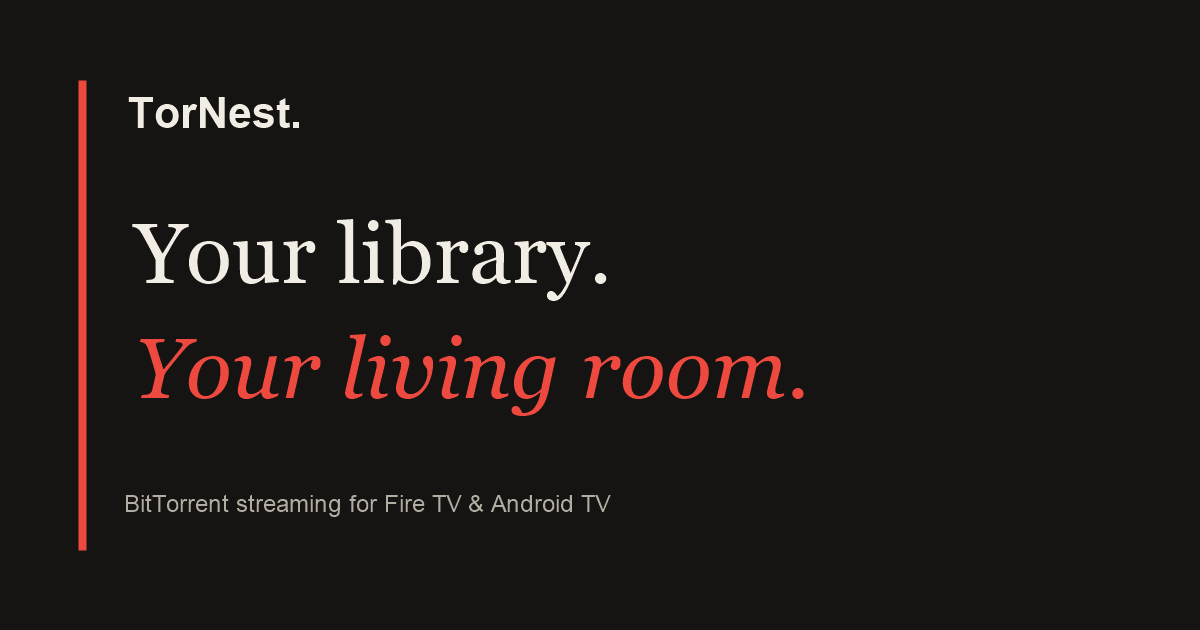
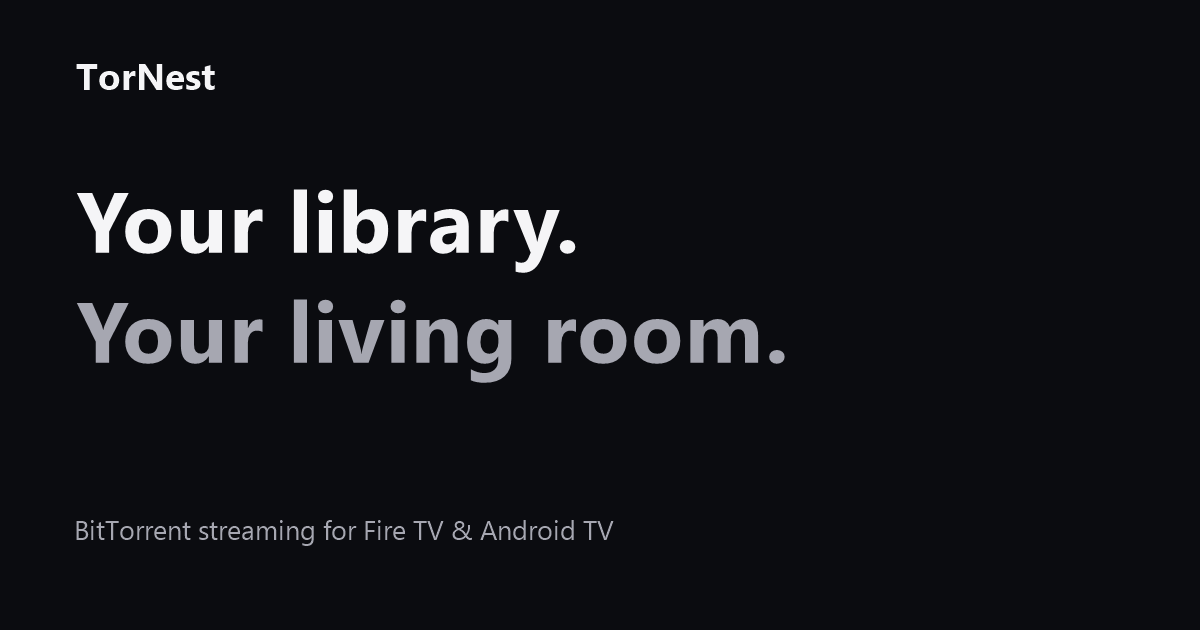
feat: refresh GitHub Pages with the new TV interface previews

Changed region(s): [[0.0617, 0.0905, 0.6783, 0.8746]]

diff --git a/website/assets/style.css b/website/assets/style.css
@@ -1,7 +1,7 @@
-@import url('https://fonts.googleapis.com/css2?family=DM+Sans:wght@400;500;600;700&family=Instrument+Serif:ital@0;1&display=swap');
+500;600;700&family=Instrument+Serif:ital@0;1&display=swap');
 
-:root{color-scheme:dark;--bg:#151413;--surface:#1d1b19;--ink:#f1ede4;--muted:#b2aca2;--line:#38342e;--red:#ed493f;--serif:'Instrument Serif',Georgia,serif;--sans:'DM Sans',Arial,sans-serif}*{box-sizing:border-box}html{scroll-behavior:smooth;scroll-padding-top:2rem}body{margin:0;background:var(--bg);color:var(--ink);font-family:var(--sans);font-size:16px;line-height:1.65}a{color:inherit;text-underline-offset:5px}a:hover{color:var(--red)}button,a{-webkit-tap-highlight-color:transparent}button:focus-visible,a:focus-visible,summary:focus-visible{outline:3px solid var(--red);outline-offset:6px}button{font:inherit}p{margin:0 0 1.3rem}h1,h2,h3{font-weight:400;margin:0}h1,h2{font-family:var(--serif);line-height:1.02;letter-spacing:-.025em}h1{font-size:clamp(4.2rem,6.7vw,7.8rem)}h2{font-size:clamp(2.8rem,4.2vw,4.8rem)}h3{font-size:1.32rem;line-height:1.3;letter-spacing:-.025em}em{font-weight:400;color:var(--red)}.wrap{width:min(1240px,calc(100% - 96px));margin-inline:auto}.site-header{height:112px;display:flex;align-items:center;gap:3rem;border-bottom:1px solid var(--line)}.brand{text-decoration:none;white-space:nowrap;font-weight:700;font-size:1.9rem;letter-spacing:-.08em;display:inline-flex;align-items:center;line-height:1}.brand-period{color:var(--red)}.brand-mark{font-size:.8rem;letter-spacing:0;margin-right:.75rem;color:var(--red)}nav{display:flex;align-items:center;gap:2rem;margin:auto}nav a,.header-github{text-decoration:none;font-size:.86rem;color:var(--muted)}nav a[aria-current]{color:var(--ink);text-decoration:underline;text-decoration-color:var(--red);text-underline-offset:10px}.header-github{color:var(--ink)}.hero{min-height:660px;display:grid;grid-template-columns:1.25fr 1fr;align-items:center;gap:2rem;padding-top:64px;padding-bottom:80px}.eyebrow{font-size:.65rem;font-weight:600;letter-spacing:.18em;display:flex;align-items:center;gap:.7rem;margin-bottom:2rem;line-height:1.6}.eyebrow>span:not(.live-dot){color:var(--red)}.live-dot{width:6px;height:6px;background:var(--red);border-radius:50%;display:inline-block}.hero h1{margin-bottom:1.8rem}.intro{color:var(--muted);font-size:1.06rem;max-width:520px;line-height:1.85}.actions{display:flex;flex-wrap:wrap;gap:12px;margin-top:2rem}.button{display:inline-flex;align-items:center;justify-content:center;gap:2rem;text-decoration:none;background:var(--red);color:#151413;border:1px solid var(--red);font-size:.85rem;font-weight:700;padding:15px 22px;min-height:53px}.button:hover{color:var(--ink);background:#bb2f28;border-color:#bb2f28}.button.secondary{background:transparent;color:var(--ink);border-color:var(--line)}.button.secondary:hover{border-color:var(--ink)}.hero-note{font-size:.72rem;color:var(--muted);margin-top:1.1rem;max-width:560px}.hero-art{position:relative;aspect-ratio:1/1;max-height:510px;isolation:isolate;background:radial-gradient(ellipse at center,#65241b66 0,transparent 66%);overflow:hidden}.art-label{position:absolute;left:0;top:6%;font-size:.62rem;letter-spacing:.18em;color:var(--muted)}.orbit{border:1px solid #514138;border-radius:50%;position:absolute;top:50%;left:50%;transform:translate(-50%,-50%)}.orbit-one{width:41%;height:41%}.orbit-two{width:68%;height:68%}.orbit-three{width:95%;height:95%;border-style:dashed;border-color:#39332d}.play-core{width:30%;height:30%;top:50%;left:50%;transform:translate(-50%,-50%);position:absolute;background:var(--red);border-radius:50%;color:#1d1814;box-shadow:0 0 80px #c9312729;display:grid;place-items:center}.play-core svg{width:75%;height:75%}.orbit-node{position:absolute;border-radius:50%;width:8px;height:8px;background:var(--red)}.node-one{top:18%;left:39%}.node-two{top:61%;left:81%}.node-three{top:69%;left:14%;width:5px;height:5px;background:var(--ink)}.art-caption{position:absolute;bottom:0;left:0;right:0;display:flex;justify-content:space-between;font-size:.53rem;letter-spacing:.16em;color:var(--muted)}.platform-strip{border-block:1px solid var(--line)}.platform-strip>.wrap{display:flex;justify-content:space-between;align-items:center;gap:1.5rem;min-height:91px}.platform-strip span:first-child{font-size:.6rem;letter-spacing:.12em;color:var(--muted)}.platform-strip span:not(:first-child){font-weight:600;letter-spacing:-.03em;font-size:1.25rem}.platform-strip a{font-size:.74rem;text-decoration:none}.section{padding-block:110px}.section-heading{max-width:560px}.section-heading>p:last-child{margin:1.4rem 0 0;color:var(--muted);max-width:390px}.feature-grid{display:grid;grid-template-columns:repeat(3,1fr);margin-top:3.5rem;border-top:1px solid var(--line)}.feature-grid article{padding:2.2rem 2.1rem 0 0}.feature-grid article+article{border-left:1px solid var(--line);padding-left:2.1rem}.feature-number{font-size:.58rem;letter-spacing:.15em;color:var(--red)}.feature-grid h3{margin:1.25rem 0 1rem}.feature-grid p{color:var(--muted);font-size:.88rem;max-width:330px}.how-section{padding-block:95px;background:var(--surface);border-block:1px solid var(--line)}.how-layout,.split{display:grid;grid-template-columns:1fr 1fr;gap:6rem}.how-layout h2{margin-bottom:1.5rem}.how-layout>div>p.muted{max-width:430px;font-size:.93rem}.text-link{display:inline-block;font-size:.8rem;margin-top:.7rem}.steps{list-style:none;padding:0;margin:0}.steps li{display:flex;gap:1.8rem;padding:1.4rem 0;border-bottom:1px solid var(--line)}.steps li:first-child{padding-top:0}.steps li>span{color:var(--red);font-size:.7rem;padding-top:.3rem}.steps h3{font-size:1.15rem}.steps p{font-size:.86rem;color:var(--muted);margin:.7rem 0 0}.faq-layout{display:grid;grid-template-columns:1fr 1.25fr;gap:5rem}details{border-bottom:1px solid var(--line)}details:first-child{border-top:1px solid var(--line)}summary{padding:1.4rem 0;list-style:none;cursor:pointer;display:flex;gap:1.5rem;justify-content:space-between;font-size:.95rem}summary::-webkit-details-marker{display:none}summary>span{font-size:1.3rem;color:var(--red);font-weight:400;line-height:1.2}details[open] summary>span{transform:rotate(45deg)}.answer{padding-right:2rem;color:var(--muted);font-size:.9rem}.answer p:last-child{margin-bottom:1.5rem}.cta{text-align:center;border-top:1px solid var(--line);padding-block:80px 100px}.cta .eyebrow{justify-content:center}.cta h2{font-size:clamp(3.6rem,6vw,6rem);margin-bottom:2rem}.cta>p:last-child{color:var(--muted);font-size:.75rem;margin-top:1rem}.site-footer{border-top:1px solid var(--line)}.footer-top{display:flex;gap:2rem;align-items:center;padding-block:40px}.footer-top .brand{font-size:1.6rem}.footer-top p{margin:0 auto 0 0;font-size:.78rem;color:var(--muted)}.footer-top>a:not(.brand){font-size:.73rem;text-decoration:none}.footer-bottom{border-top:1px solid var(--line);padding-block:24px;display:flex;gap:3rem;align-items:center}.footer-bottom p{max-width:740px;color:var(--muted);font-size:.66rem;margin:0}.footer-bottom>span{margin-left:auto;white-space:nowrap;font-size:.56rem;letter-spacing:.14em;color:var(--muted)}.skip-link{position:absolute;left:1rem;top:-80px;z-index:10;padding:12px 20px;background:var(--ink);color:var(--bg)}.skip-link:focus{top:1rem}.muted{color:var(--muted)}.small{font-size:.78rem}.page-hero{padding-block:90px 65px}.page-hero h1{margin-bottom:1.6rem}.page-hero .intro{max-width:640px}.page-hero>.button{margin-top:1rem}.guide{display:grid;grid-template-columns:270px 1fr;gap:6rem;padding-bottom:100px;padding-top:30px}.guide-aside{font-size:.84rem;color:var(--muted);border-top:1px solid var(--line);padding-top:1.6rem}.guide-aside .eyebrow{color:var(--red);margin-bottom:1rem}.guide-step{display:grid;grid-template-columns:35px 1fr;gap:1.2rem;padding:1.7rem 0;border-top:1px solid var(--line)}.step-index{font-size:.7rem;color:var(--red);padding-top:.4rem}.guide h2,.prose-section h2{font-family:var(--sans);font-size:1.5rem;line-height:1.4;letter-spacing:-.04em;margin-bottom:1rem}.guide-step p,.prose-section p{font-size:.94rem;color:var(--muted)}code{font-family:Consolas,'Liberation Mono',monospace;font-size:.86em;overflow-wrap:anywhere}p code{color:var(--ink)}.code-panel{border:1px solid var(--line);background:var(--surface);padding:28px;margin-block:30px}.code-panel .eyebrow{color:var(--red);margin-bottom:1rem}.code-panel>p{font-size:.85rem;color:var(--muted)}.code-toolbar{display:flex;align-items:center;justify-content:space-between;margin-top:1.5rem;font-size:.6rem;color:var(--muted);letter-spacing:.1em}.copy-button{padding:8px 10px;background:transparent;border:1px solid var(--line);color:var(--ink);font-size:.72rem;cursor:pointer}.copy-button:hover{border-color:var(--red)}pre{max-width:100%;overflow-x:auto;background:#11100f;border:1px solid var(--line);padding:18px;font-size:.9rem;white-space:pre}.copy-status:empty{display:none}.prose-section{padding-top:2rem}.requirements{display:grid;grid-template-columns:repeat(3,1fr);border-block:1px solid var(--line)}.requirements>div{padding:2rem 2rem 2rem 0}.requirements>div+div{padding-left:2rem;border-left:1px solid var(--line)}.requirements .eyebrow{font-size:.57rem;margin-bottom:1rem}.requirements strong{display:block;font-family:var(--serif);font-size:3rem;font-weight:400;line-height:1.2;margin-bottom:.7rem}.requirements>div>span{display:block;font-size:.78rem;color:var(--muted)}.table-scroll{overflow-x:auto;margin-top:2rem}table{border-collapse:collapse;width:100%;text-align:left}caption{text-align:left;font-size:.75rem;color:var(--muted);padding-bottom:1.5rem}th,td{padding:1.3rem 1.5rem 1.3rem 0;border-bottom:1px solid var(--line);vertical-align:top}thead th{font-size:.65rem;text-transform:uppercase;letter-spacing:.13em;color:var(--muted)}tbody th{font-weight:500;width:30%;font-size:.95rem}td{color:var(--muted);font-size:.9rem}.table-scroll+p{font-size:.8rem;margin-top:1.5rem}.split>div:last-child{font-size:.94rem;color:var(--muted)}.help-content{max-width:860px;margin-bottom:1rem}.report-list{padding-left:1.1rem}.report-list li{margin-bottom:.5rem}
+:root{color-scheme:dark;--bg:#0b0c10;--surface:#15161c;--ink:#f5f5f7;--muted:#a6a7b1;--line:#2d2e37;--red:#e5e5ea;--serif:var(--sans);--sans:Inter,-apple-system,BlinkMacSystemFont,"Segoe UI",Arial,sans-serif}*{box-sizing:border-box}html{scroll-behavior:smooth;scroll-padding-top:2rem}body{margin:0;background:var(--bg);color:var(--ink);font-family:var(--sans);font-size:16px;line-height:1.65}a{color:inherit;text-underline-offset:5px}a:hover{color:var(--red)}button,a{-webkit-tap-highlight-color:transparent}button:focus-visible,a:focus-visible,summary:focus-visible{outline:3px solid var(--red);outline-offset:6px}button{font:inherit}p{margin:0 0 1.3rem}h1,h2,h3{font-weight:600;margin:0}h1,h2{font-family:var(--serif);line-height:1.06;letter-spacing:-.055em}h1{font-size:clamp(3.4rem,5.5vw,6rem)}h2{font-size:clamp(2.8rem,4.2vw,4.8rem)}h3{font-size:1.32rem;line-height:1.3;letter-spacing:-.025em}em{font-weight:600;font-style:normal;color:var(--muted)}.wrap{width:min(1240px,calc(100% - 96px));margin-inline:auto}.site-header{height:96px;display:flex;align-items:center;gap:3rem;border-bottom:1px solid var(--line)}.brand{text-decoration:none;white-space:nowrap;font-weight:700;font-size:1.9rem;letter-spacing:-.08em;display:inline-flex;align-items:center;line-height:1}.brand-period{color:var(--red)}.brand-mark{font-size:.8rem;letter-spacing:0;margin-right:.75rem;color:var(--red)}nav{display:flex;align-items:center;gap:4px;margin:auto;background:var(--surface);border:1px solid var(--line);border-radius:50px;padding:5px}nav a,.header-github{text-decoration:none;font-size:.86rem;color:var(--muted)}nav a{padding:8px 15px;border-radius:50px}nav a[aria-current]{color:var(--ink);background:#30313a}.header-github{color:var(--ink)}.hero{min-height:660px;display:grid;grid-template-columns:1fr 1.15fr;align-items:center;gap:2rem;padding-top:64px;padding-bottom:80px}.eyebrow{font-size:.65rem;font-weight:600;letter-spacing:.18em;display:flex;align-items:center;gap:.7rem;margin-bottom:2rem;line-height:1.6}.eyebrow>span:not(.live-dot){color:var(--red)}.live-dot{width:6px;height:6px;background:var(--red);border-radius:50%;display:inline-block}.hero h1{margin-bottom:1.8rem}.intro{color:var(--muted);font-size:1.06rem;max-width:520px;line-height:1.85}.actions{display:flex;flex-wrap:wrap;gap:12px;margin-top:2rem}.button{display:inline-flex;align-items:center;justify-content:center;gap:2rem;text-decoration:none;background:var(--red);color:#151413;border:1px solid var(--red);border-radius:12px;font-size:.85rem;font-weight:700;padding:15px 22px;min-height:53px}.button:hover{color:var(--bg);background:#fff;border-color:#fff}.button.secondary{background:var(--surface);color:var(--ink);border-color:var(--line)}.button.secondary:hover{border-color:var(--ink)}.hero-note{font-size:.72rem;color:var(--muted);margin-top:1.1rem;max-width:560px}figure{margin:0}.hero-preview{min-width:0}.hero-preview img,.preview-grid img{display:block;width:100%;height:auto;border:1px solid var(--line);border-radius:18px;background:var(--surface)}figcaption{font-size:.75rem;color:var(--muted);line-height:1.6;margin-top:14px}.hero-preview img{box-shadow:0 24px 70px #0008}.interface-section{padding-bottom:100px}.preview-grid{display:grid;grid-template-columns:1fr 1fr;gap:24px;margin-top:40px}.preview-note{color:var(--muted);font-size:.78rem;max-width:860px;margin-top:28px}.code-panel,.copy-button,pre{border-radius:12px}.platform-strip{border-block:1px solid var(--line)}.platform-strip>.wrap{display:flex;justify-content:space-between;align-items:center;gap:1.5rem;min-height:91px}.platform-strip span:first-child{font-size:.6rem;letter-spacing:.12em;color:var(--muted)}.platform-strip span:not(:first-child){font-weight:600;letter-spacing:-.03em;font-size:1.25rem}.platform-strip a{font-size:.74rem;text-decoration:none}.section{padding-block:110px}.section-heading{max-width:560px}.section-heading>p:last-child{margin:1.4rem 0 0;color:var(--muted);max-width:390px}.feature-grid{display:grid;grid-template-columns:repeat(3,1fr);margin-top:3.5rem;gap:18px}.feature-grid article{background:var(--surface);border:1px solid var(--line);border-radius:18px;padding:28px}.feature-grid article+article{padding:28px}.feature-number{font-size:.58rem;letter-spacing:.15em;color:var(--red)}.feature-grid h3{margin:1.25rem 0 1rem}.feature-grid p{color:var(--muted);font-size:.88rem;max-width:330px}.how-section{padding-block:95px;background:var(--surface);border-block:1px solid var(--line)}.how-layout,.split{display:grid;grid-template-columns:1fr 1fr;gap:6rem}.how-layout h2{margin-bottom:1.5rem}.how-layout>div>p.muted{max-width:430px;font-size:.93rem}.text-link{display:inline-block;font-size:.8rem;margin-top:.7rem}.steps{list-style:none;padding:0;margin:0}.steps li{display:flex;gap:1.8rem;padding:1.4rem 0;border-bottom:1px solid var(--line)}.steps li:first-child{padding-top:0}.steps li>span{color:var(--red);font-size:.7rem;padding-top:.3rem}.steps h3{font-size:1.15rem}.steps p{font-size:.86rem;color:var(--muted);margin:.7rem 0 0}.faq-layout{display:grid;grid-template-columns:1fr 1.25fr;gap:5rem}details{border-bottom:1px solid var(--line)}details:first-child{border-top:1px solid var(--line)}summary{padding:1.4rem 0;list-style:none;cursor:pointer;display:flex;gap:1.5rem;justify-content:space-between;font-size:.95rem}summary::-webkit-details-marker{display:none}summary>span{font-size:1.3rem;color:var(--red);font-weight:400;line-height:1.2}details[open] summary>span{transform:rotate(45deg)}.answer{padding-right:2rem;color:var(--muted);font-size:.9rem}.answer p:last-child{margin-bottom:1.5rem}.cta{text-align:center;border-top:1px solid var(--line);padding-block:80px 100px}.cta .eyebrow{justify-content:center}.cta h2{font-size:clamp(3.6rem,6vw,6rem);margin-bottom:2rem}.cta>p:last-child{color:var(--muted);font-size:.75rem;margin-top:1rem}.site-footer{border-top:1px solid var(--line)}.footer-top{display:flex;gap:2rem;align-items:center;padding-block:40px}.footer-top .brand{font-size:1.6rem}.footer-top p{margin:0 auto 0 0;font-size:.78rem;color:var(--muted)}.footer-top>a:not(.brand){font-size:.73rem;text-decoration:none}.footer-bottom{border-top:1px solid var(--line);padding-block:24px;display:flex;gap:3rem;align-items:center}.footer-bottom p{max-width:740px;color:var(--muted);font-size:.66rem;margin:0}.footer-bottom>span{margin-left:auto;white-space:nowrap;font-size:.56rem;letter-spacing:.14em;color:var(--muted)}.skip-link{position:absolute;left:1rem;top:-80px;z-index:10;padding:12px 20px;background:var(--ink);color:var(--bg)}.skip-link:focus{top:1rem}.muted{color:var(--muted)}.small{font-size:.78rem}.page-hero{padding-block:90px 65px}.page-hero h1{margin-bottom:1.6rem}.page-hero .intro{max-width:640px}.page-hero>.button{margin-top:1rem}.guide{display:grid;grid-template-columns:270px 1fr;gap:6rem;padding-bottom:100px;padding-top:30px}.guide-aside{font-size:.84rem;color:var(--muted);border-top:1px solid var(--line);padding-top:1.6rem}.guide-aside .eyebrow{color:var(--red);margin-bottom:1rem}.guide-step{display:grid;grid-template-columns:35px 1fr;gap:1.2rem;padding:1.7rem 0;border-top:1px solid var(--line)}.step-index{font-size:.7rem;color:var(--red);padding-top:.4rem}.guide h2,.prose-section h2{font-family:var(--sans);font-size:1.5rem;line-height:1.4;letter-spacing:-.04em;margin-bottom:1rem}.guide-step p,.prose-section p{font-size:.94rem;color:var(--muted)}code{font-family:Consolas,'Liberation Mono',monospace;font-size:.86em;overflow-wrap:anywhere}p code{color:var(--ink)}.code-panel{border:1px solid var(--line);background:var(--surface);padding:28px;margin-block:30px}.code-panel .eyebrow{color:var(--red);margin-bottom:1rem}.code-panel>p{font-size:.85rem;color:var(--muted)}.code-toolbar{display:flex;align-items:center;justify-content:space-between;margin-top:1.5rem;font-size:.6rem;color:var(--muted);letter-spacing:.1em}.copy-button{padding:8px 10px;background:transparent;border:1px solid var(--line);color:var(--ink);font-size:.72rem;cursor:pointer}.copy-button:hover{border-color:var(--red)}pre{max-width:100%;overflow-x:auto;background:#090a0e;border:1px solid var(--line);padding:18px;font-size:.9rem;white-space:pre}.copy-status:empty{display:none}.prose-section{padding-top:2rem}.requirements{display:grid;grid-template-columns:repeat(3,1fr);border-block:1px solid var(--line)}.requirements>div{padding:2rem 2rem 2rem 0}.requirements>div+div{padding-left:2rem;border-left:1px solid var(--line)}.requirements .eyebrow{font-size:.57rem;margin-bottom:1rem}.requirements strong{display:block;font-family:var(--serif);font-size:3rem;font-weight:400;line-height:1.2;margin-bottom:.7rem}.requirements>div>span{display:block;font-size:.78rem;color:var(--muted)}.table-scroll{overflow-x:auto;margin-top:2rem}table{border-collapse:collapse;width:100%;text-align:left}caption{text-align:left;font-size:.75rem;color:var(--muted);padding-bottom:1.5rem}th,td{padding:1.3rem 1.5rem 1.3rem 0;border-bottom:1px solid var(--line);vertical-align:top}thead th{font-size:.65rem;text-transform:uppercase;letter-spacing:.13em;color:var(--muted)}tbody th{font-weight:500;width:30%;font-size:.95rem}td{color:var(--muted);font-size:.9rem}.table-scroll+p{font-size:.8rem;margin-top:1.5rem}.split>div:last-child{font-size:.94rem;color:var(--muted)}.help-content{max-width:860px;margin-bottom:1rem}.report-list{padding-left:1.1rem}.report-list li{margin-bottom:.5rem}
 @media(min-width:1500px){.hero{min-height:740px}}
-@media(max-width:1000px){.wrap{width:calc(100% - 56px)}.site-header{gap:1.5rem}nav{gap:1.2rem}.hero{gap:0}.hero h1{font-size:5.4rem}.hero-art{min-height:320px}.hero-copy{position:relative;z-index:1}.platform-strip>.wrap{flex-wrap:wrap;justify-content:flex-start;padding-block:22px;gap:1rem 2rem}.platform-strip span:first-child{width:100%}.platform-strip a{margin-left:auto}.how-layout,.split{gap:3rem}.faq-layout{gap:3rem}.guide{gap:3rem;grid-template-columns:220px 1fr}.footer-top{gap:1.3rem}.requirements strong{font-size:2.5rem}}
-@media(max-width:700px){.wrap{width:calc(100% - 40px)}.site-header{height:auto;min-height:105px;flex-wrap:wrap;padding-block:20px;gap:18px}.brand{font-size:1.7rem}.header-github{margin-left:auto}nav{order:3;width:100%;margin:0;justify-content:space-between;gap:.5rem}nav a{font-size:.75rem}.hero{display:flex;flex-direction:column;align-items:stretch;padding-top:45px;padding-bottom:35px;min-height:0}.hero h1{font-size:clamp(3.8rem,13vw,5.5rem)}.eyebrow{font-size:.58rem;margin-bottom:1.5rem}.intro{font-size:.97rem}.hero-art{width:100%;max-width:420px;margin:35px auto 0;min-height:0}.art-label{top:3%}.art-caption{font-size:.48rem}.hero-note{font-size:.68rem}.button{padding:13px 17px;gap:1.2rem;font-size:.78rem;min-height:50px}.platform-strip span:not(:first-child){font-size:1.05rem}.platform-strip a{width:100%;margin:0}.section{padding-block:65px}.feature-grid{grid-template-columns:1fr;margin-top:2.3rem}.feature-grid article,.feature-grid article+article{padding:1.5rem 0;border-left:0;border-bottom:1px solid var(--line)}.feature-grid h3{margin:.8rem 0}.feature-grid p{max-width:none}.how-section{padding-block:60px}.how-layout,.split,.faq-layout{grid-template-columns:1fr;gap:2.5rem}.steps li:first-child{padding-top:1.2rem;border-top:1px solid var(--line)}.cta{padding-block:60px}.footer-top{flex-wrap:wrap;gap:1.3rem}.footer-top p{width:calc(100% - 140px);margin:0}.footer-bottom{flex-direction:column;align-items:flex-start;gap:1rem}.footer-bottom>span{margin:0}.page-hero{padding-block:55px 35px}.page-hero h1{font-size:clamp(3.5rem,12vw,5rem)}.guide{grid-template-columns:1fr;gap:2rem;padding-bottom:55px}.guide-aside{padding-top:1rem}.guide-step{grid-template-columns:25px 1fr;gap:.8rem}.code-panel{padding:18px}.requirements{grid-template-columns:1fr}.requirements>div,.requirements>div+div{padding:1.4rem 0;border-left:0;border-bottom:1px solid var(--line)}.requirements>div:last-child{border-bottom:0}.requirements .eyebrow{margin-bottom:.7rem}.requirements strong{font-size:2.5rem}.help-content{padding-top:15px}th,td{padding-right:1rem}tbody th{width:35%}summary{font-size:.9rem}h2{font-size:2.9rem}}
+@media(max-width:1000px){.wrap{width:calc(100% - 56px)}.site-header{gap:1.5rem}nav a{padding-inline:10px}.hero{gap:0}.hero h1{font-size:4rem}.hero-copy{position:relative;z-index:1}.platform-strip>.wrap{flex-wrap:wrap;justify-content:flex-start;padding-block:22px;gap:1rem 2rem}.platform-strip span:first-child{width:100%}.platform-strip a{margin-left:auto}.how-layout,.split{gap:3rem}.faq-layout{gap:3rem}.guide{gap:3rem;grid-template-columns:220px 1fr}.footer-top{gap:1.3rem}.requirements strong{font-size:2.5rem}}
+@media(max-width:700px){.wrap{width:calc(100% - 40px)}.site-header{height:auto;min-height:105px;flex-wrap:wrap;padding-block:20px;gap:18px}.brand{font-size:1.7rem}.header-github{margin-left:auto}nav{order:3;width:100%;margin:0;justify-content:space-between;gap:.5rem}nav a{font-size:.7rem;padding:8px 5px}.hero{display:flex;flex-direction:column;align-items:stretch;padding-top:45px;padding-bottom:35px;min-height:0}.hero h1{font-size:clamp(3.8rem,13vw,5.5rem)}.eyebrow{font-size:.58rem;margin-bottom:1.5rem}.intro{font-size:.97rem}.hero-preview{margin-top:32px}.preview-grid{grid-template-columns:1fr}.interface-section{padding-bottom:60px}.art-label{top:3%}.art-caption{font-size:.48rem}.hero-note{font-size:.68rem}.button{padding:13px 17px;gap:1.2rem;font-size:.78rem;min-height:50px}.platform-strip span:not(:first-child){font-size:1.05rem}.platform-strip a{width:100%;margin:0}.section{padding-block:65px}.feature-grid{grid-template-columns:1fr;margin-top:2.3rem}.feature-grid article,.feature-grid article+article{padding:24px}.feature-grid h3{margin:.8rem 0}.feature-grid p{max-width:none}.how-section{padding-block:60px}.how-layout,.split,.faq-layout{grid-template-columns:1fr;gap:2.5rem}.steps li:first-child{padding-top:1.2rem;border-top:1px solid var(--line)}.cta{padding-block:60px}.footer-top{flex-wrap:wrap;gap:1.3rem}.footer-top p{width:calc(100% - 140px);margin:0}.footer-bottom{flex-direction:column;align-items:flex-start;gap:1rem}.footer-bottom>span{margin:0}.page-hero{padding-block:55px 35px}.page-hero h1{font-size:clamp(3.5rem,12vw,5rem)}.guide{grid-template-columns:1fr;gap:2rem;padding-bottom:55px}.guide-aside{padding-top:1rem}.guide-step{grid-template-columns:25px 1fr;gap:.8rem}.code-panel{padding:18px}.requirements{grid-template-columns:1fr}.requirements>div,.requirements>div+div{padding:1.4rem 0;border-left:0;border-bottom:1px solid var(--line)}.requirements>div:last-child{border-bottom:0}.requirements .eyebrow{margin-bottom:.7rem}.requirements strong{font-size:2.5rem}.help-content{padding-top:15px}th,td{padding-right:1rem}tbody th{width:35%}summary{font-size:.9rem}h2{font-size:2.9rem}}
 @media(prefers-reduced-motion:reduce){html{scroll-behavior:auto}}
